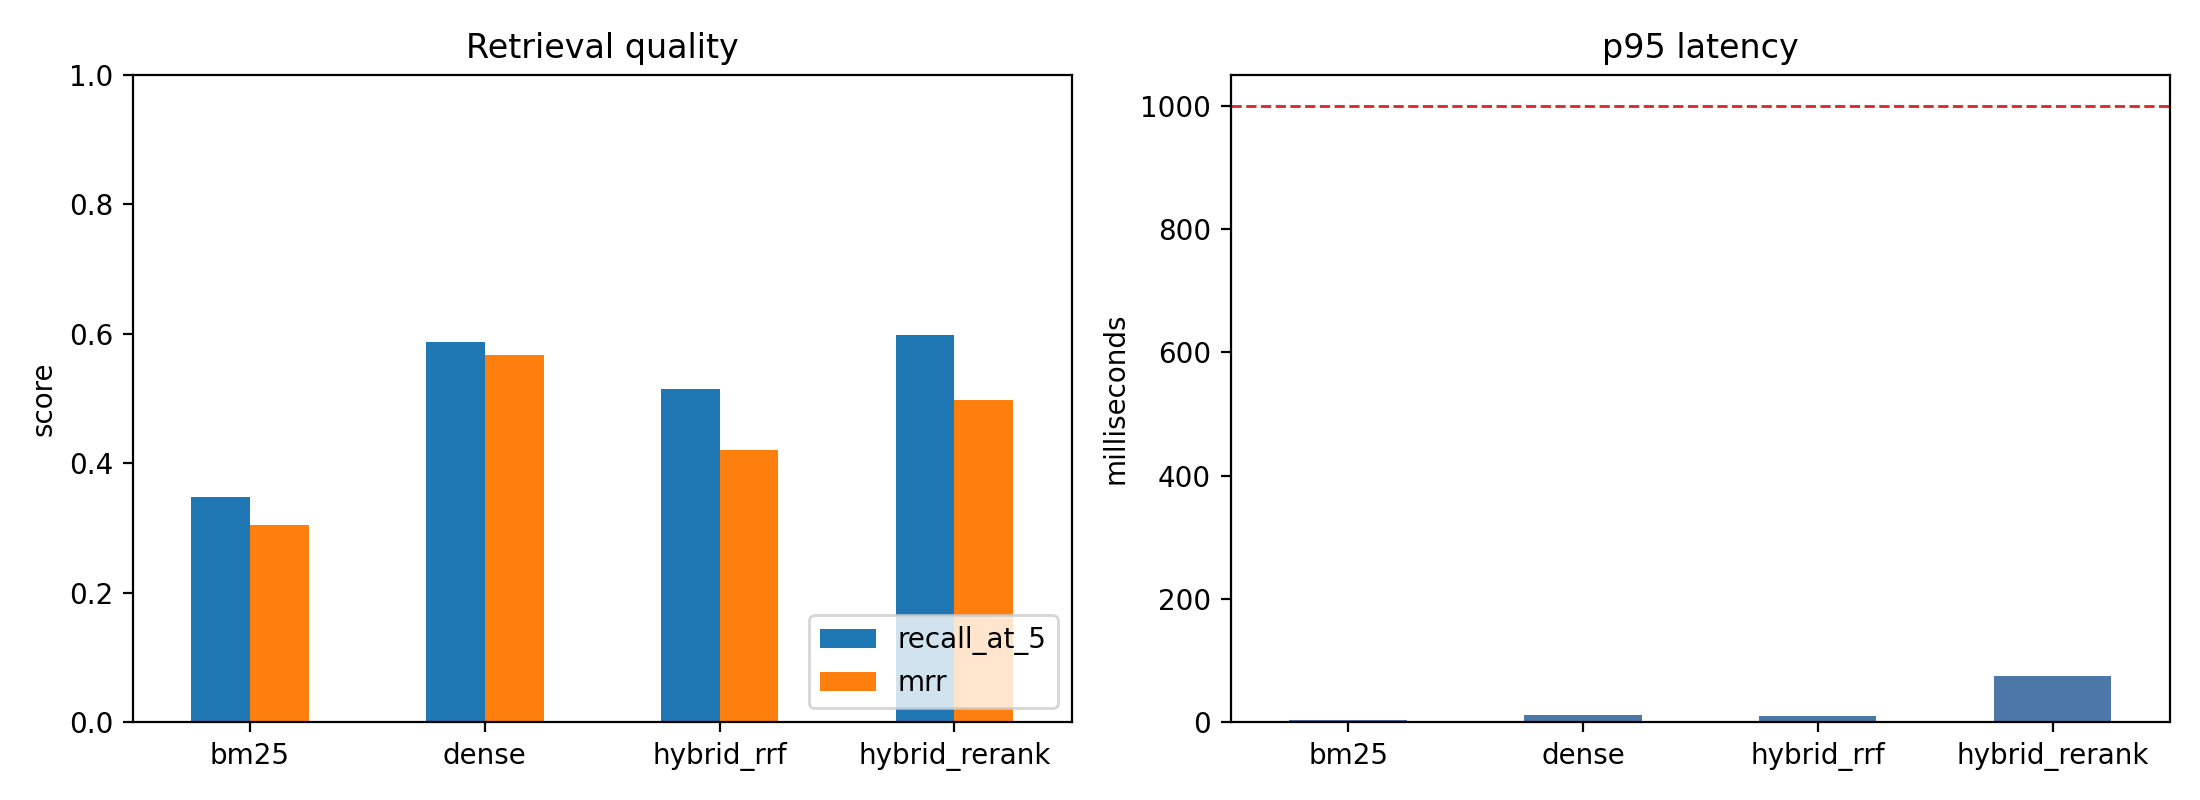
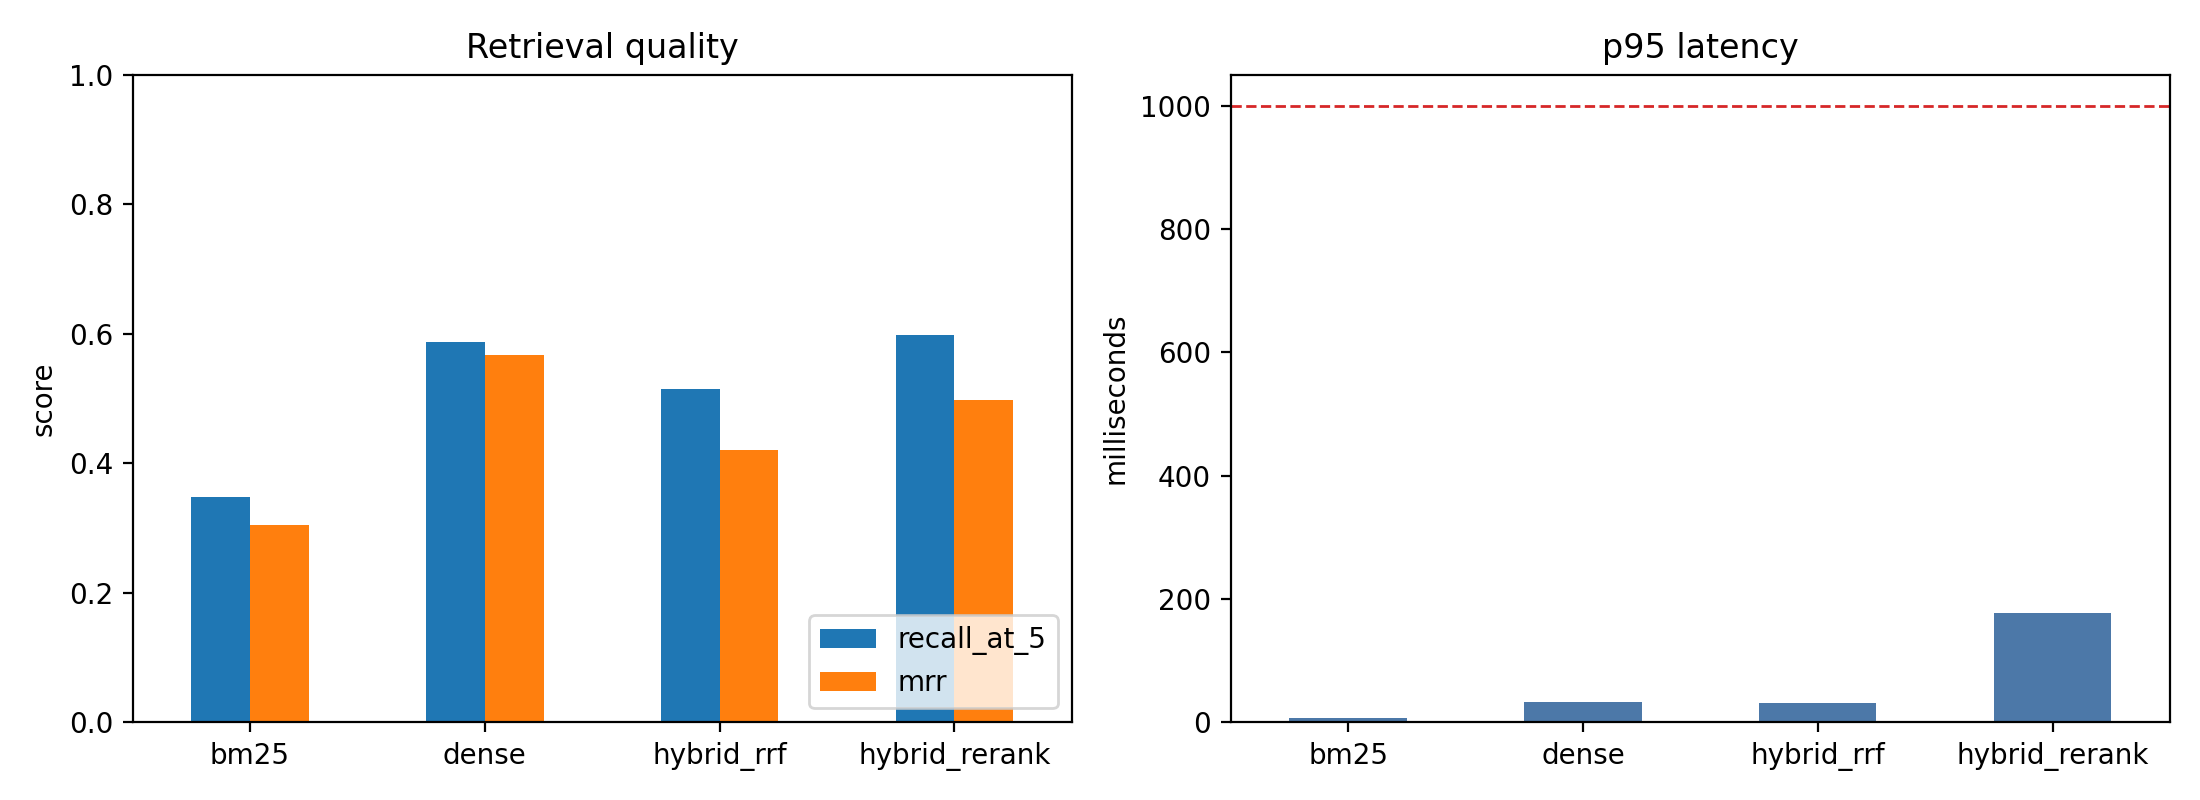
update

Changed region(s): [[0.8964, 0.75, 0.9582, 0.8438], [0.8036, 0.875, 0.8655, 0.9062], [0.68, 0.875, 0.7418, 0.9062]]

diff --git a/README.md b/README.md
@@ -102,17 +102,19 @@ including 5 hard queries.
 ![Retrieval metrics plot](results/metrics_plot.png)
 | config | recall@5 | MRR | p95 latency |
 | --- | ---: | ---: | ---: |
-| bm25 | 0.347 | 0.304 | 3.1 ms |
-| dense | 0.588 | 0.567 | 12.2 ms |
-| hybrid_rrf | 0.514 | 0.421 | 10.4 ms |
-| hybrid_rerank | 0.598 | 0.497 | 75.3 ms |
+| bm25 | 0.347 | 0.304 | 6.5 ms |
+| dense | 0.588 | 0.567 | 32.3 ms |
+| hybrid_rrf | 0.514 | 0.421 | 31.6 ms |
+| hybrid_rerank | 0.598 | 0.497 | 177.0 ms |
 
 
 I define the best practical configuration as the one that gives the strongest quality-latency tradeoff for interactive documentation search, with MRR prioritized slightly over recall@5 because users are more likely to trust the system when a relevant document appears near the top of the results. Under this criterion, **dense retrieval** is the best choice: hybrid reranking improves recall@5 by only 0.010, but has lower MRR and about 6x higher p95 latency.
 
 All configurations meet the p95 latency constraint. The reported latency
-excludes corpus construction and dense embedding generation, and measures
-retrieval after indexes and models are loaded.
+excludes offline corpus construction and document embedding generation.
+Query-time processing was measured after indexes and models were loaded, so
+dense query embedding and reranker scoring are included in the timed retrieval
+calls.
 
 ## Category Analysis
 
@@ -172,18 +174,21 @@ Dense retrieval returned no labelled relevant document in the top 5 for five que
 | q15 | Permission and layout ambiguity | The symptom sounds like a page layout issue because the field does not appear on the Account record page. The labelled answer is actually about field-level security and field permissions, so dense retrieval returned adjacent setup and access-control pages. |
 | q19 | Symptom-based troubleshooting | The query describes an automation that works for a few Case records but fails in bulk. Dense retrieval did not connect this symptom to Apex bulk trigger patterns, SOQL limits, and governor limits. |
 
-
+Overall, these errors suggest that dense retrieval is strong at capturing broad semantic similarity, but still struggles when the query requires Salesforce-specific disambiguation, hidden feature-name matching, or symptom-to-cause reasoning. These cases motivate improvements such as richer chunk context, query rewriting for troubleshooting queries, and more carefully tuned hybrid reranking.
 
 
 # If I Had One More Week
 
-If I had one more week, I would improve both the corpus construction and the evaluation set.
+If I had one more week, I would improve the corpus construction, the evaluation set, and the retrieval pipeline.
 
 For corpus construction, I would add more document context to each retrieval chunk. The current corpus contains 344 mostly text-based chunks, but Salesforce PDFs often depend on guide titles, section headings, tables, setup steps, diagrams, and screenshots. Without this context, chunks containing terms such as `routing address`, `debug options`, or `field permissions` can be difficult to distinguish across Email-to-Case, Flow Debug, and Field-Level Security documentation. I would therefore prepend guide titles and section headings to chunks, preserve table and step-by-step structures, generate short descriptions for visual content, and store parent document metadata. I would also test grouping results from the same page or section.
 
-For evaluation, I would expand the 20-query benchmark, especially in the hardest categories: symptom-based troubleshooting and paraphrased feature discovery. I would also add more natural-language automation cases involving Flow and Apex alternatives, CRM-to-Marketing Cloud data usage, and multi-step customer communication workflows to test whether dense retrieval consistently handles broad operator phrasing.
+For evaluation, I would expand the 20-query benchmark, especially in the hardest categories: symptom-based troubleshooting and paraphrased feature discovery. I would also add more natural-language automation cases to test whether dense retrieval can consistently handle broad, goal-oriented user phrasing.
 
-I would also inspect hard misses to see whether they are caused by poor chunk boundaries, missing section context, ambiguous labels, or model limitations. This would make the benchmark more representative of real Salesforce documentation search, where users often describe their goal or problem without knowing the exact Salesforce feature name.
+I would also tune the hybrid retrieval and reranking pipeline rather than assuming the current hybrid settings are optimal. The current results show that hybrid methods recovered different hard cases from dense retrieval, so better weighting, candidate depth, or reranker calibration might improve robustness on difficult queries.
+
+Finally, I would inspect hard misses to see whether they are caused by poor chunk boundaries, missing section context, ambiguous labels, or model limitations. This would make the benchmark more representative of real Salesforce documentation search, where users often describe their goal or problem without knowing the exact Salesforce feature name.
+
 
 # Reproduce
 
